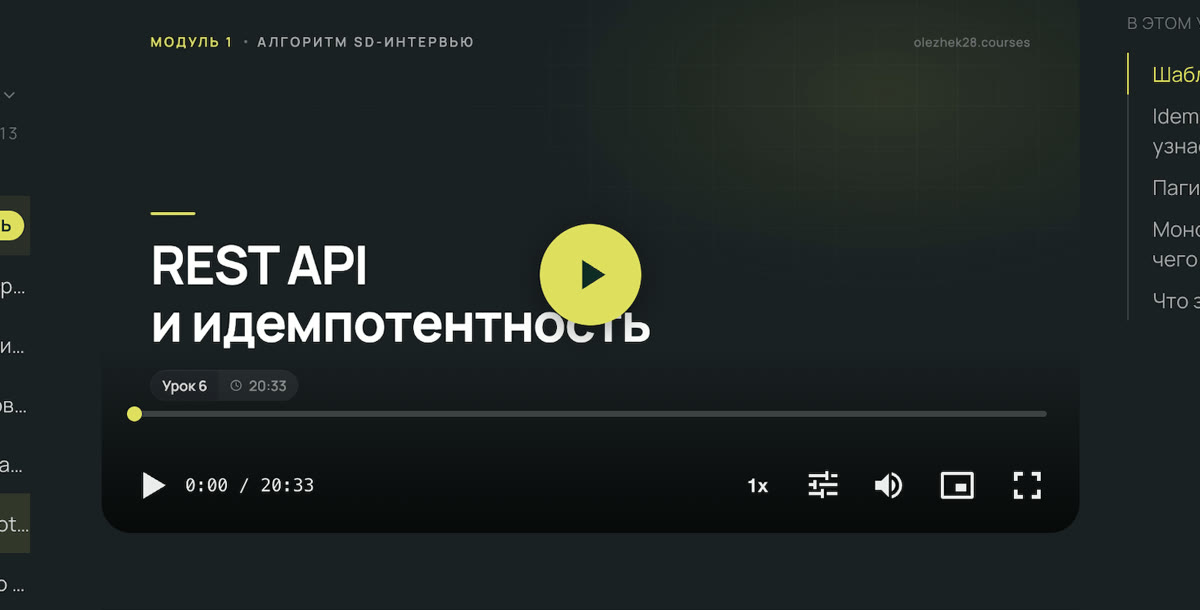
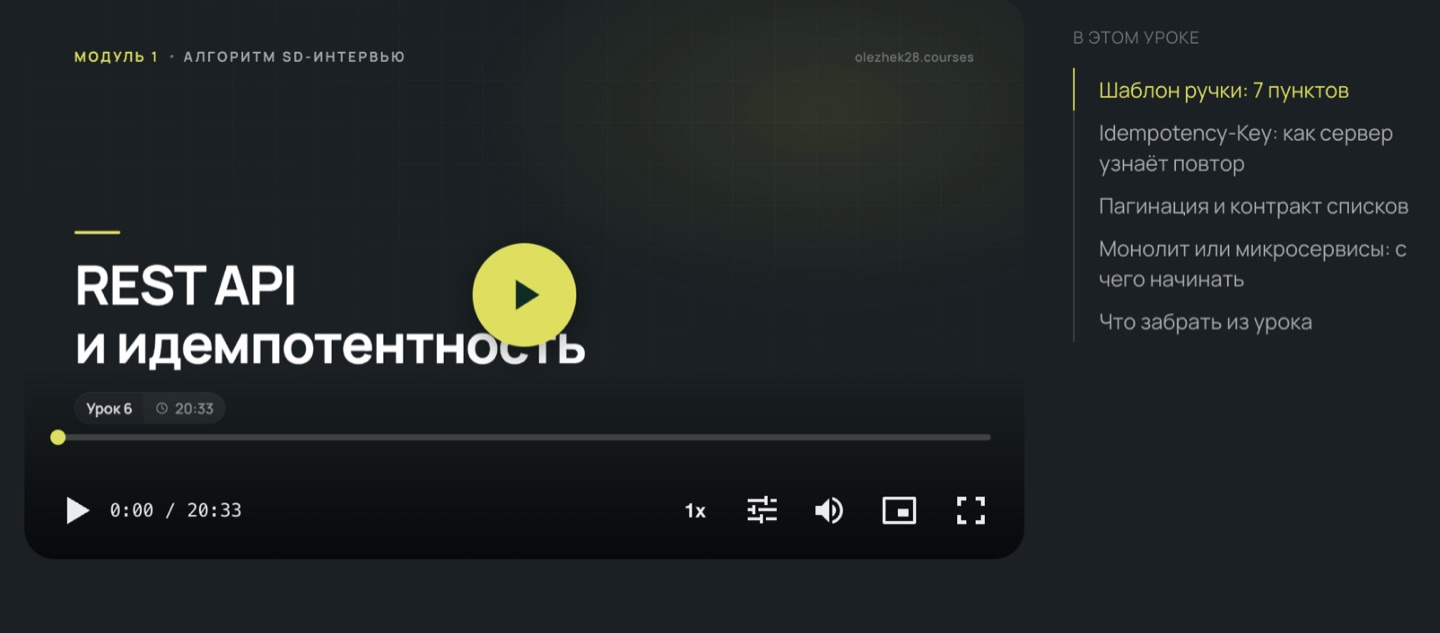
Скрин урока в шаге 01 заменён на кадр без левой колонки
Заказчик прислал новый скрин: плеер урока про REST API и идемпотентность
плюс оглавление «В этом уроке» целиком. Прошлый кадр обрезал правую
колонку, и от неё оставалась полоска текста.

Картинка ужата до 1440 пикселей по ширине (82 КБ), размеры и alt в
разметке обновлены под новые пропорции.

diff --git a/system_design/index.html b/system_design/index.html
@@ -2567,7 +2567,7 @@
                  Раньше здесь стояла нарисованная доска с пятишаговым разбором, но
                  те же пять шагов теперь есть в блоке «Вот что от тебя ждут на секции». -->
             <figure class="shot">
-              <img class="shot__img" src="lesson-ui.jpg" alt="Урок внутри курса: слева программа недели, по центру плеер, справа оглавление урока" width="1200" height="610" loading="lazy" decoding="async">
+              <img class="shot__img" src="lesson-ui.jpg" alt="Урок внутри курса: плеер с уроком по REST API и идемпотентности, справа оглавление урока" width="1440" height="633" loading="lazy" decoding="async">
             </figure>
           </div>
         </div>
